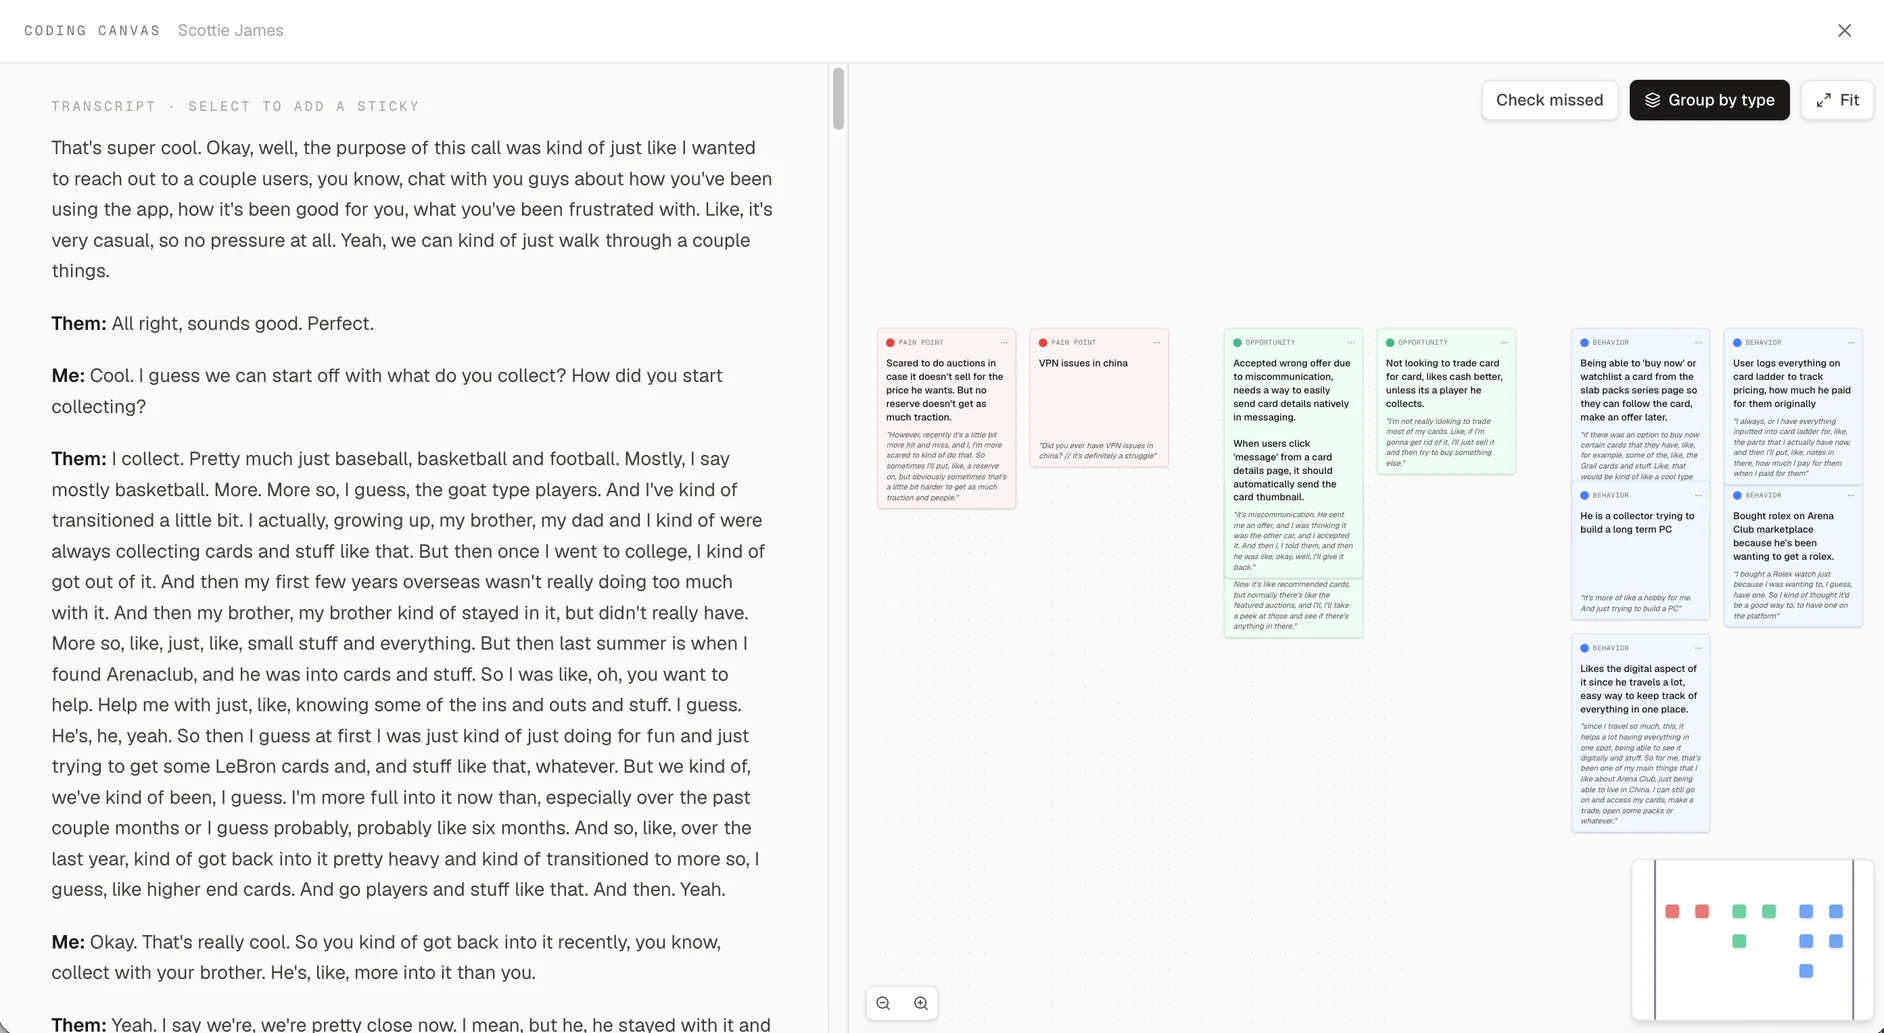
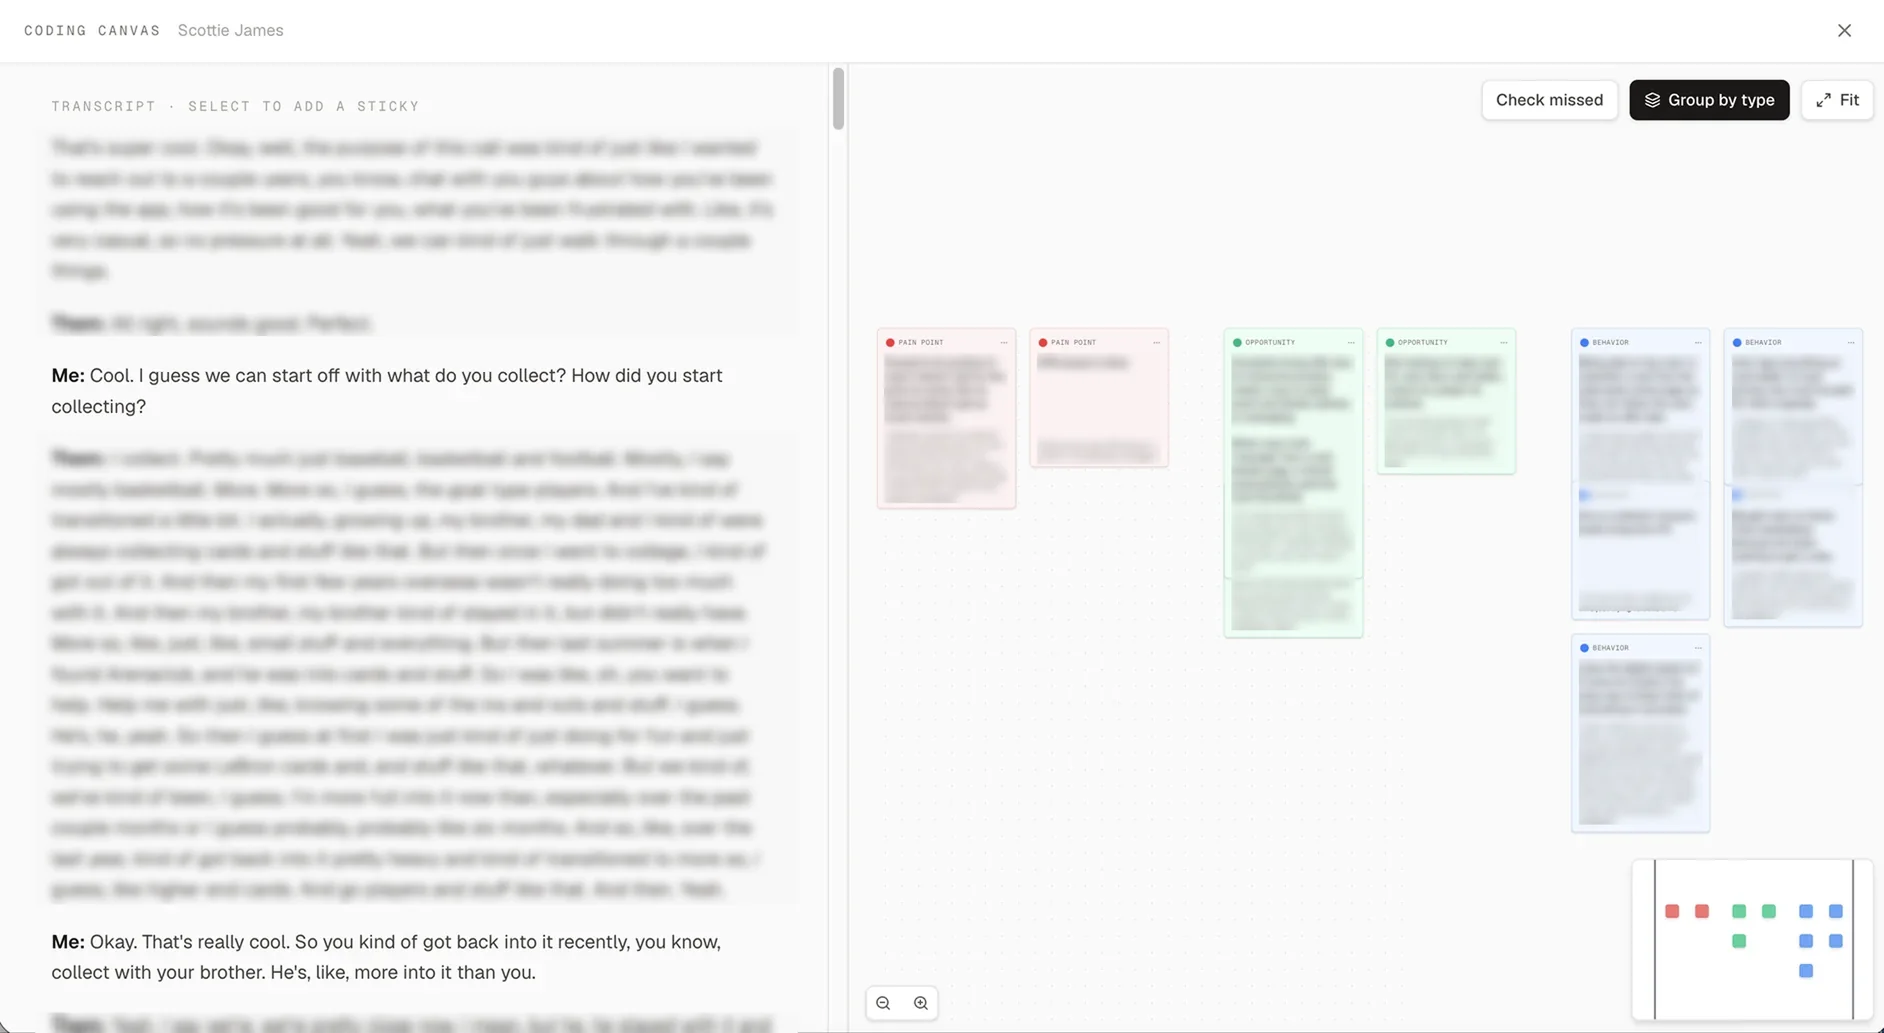
Open the resume in a tab, and blur the coding canvas screenshot
- A .pdf href now counts as external everywhere it appears, so the resume opens
  in a new tab instead of saving. One rule covers the nav and both footers.
- log-2.webp is the blurred capture of the coding canvas. The previous one had
  a real interview transcript and sticky notes legible in it.

diff --git a/components/Contact.tsx b/components/Contact.tsx
@@ -3,7 +3,7 @@ import styles from "./Contact.module.css";
 
 const EMAIL = "vickyyjen@gmail.com";
 
-/** The resume is a download; the rest open. */
+/** Everything here opens in a new tab — the resume included. */
 const LINKS = [
   { label: "Email", href: `mailto:${EMAIL}` },
   { label: "Resume", href: "/resume.pdf" },
@@ -24,16 +24,14 @@ export default function Contact() {
         style={{ "--reveal-delay": "90ms" } as CSSProperties}
       >
         {LINKS.map((link) => {
-          const external = link.href.startsWith("http");
+          const external = link.href.startsWith("http") || link.href.endsWith(".pdf");
           return (
             <a
               key={link.label}
               className={styles.link}
               href={link.href}
               {...(external ? { target: "_blank", rel: "noreferrer noopener" } : {})}
-              {...(link.href.endsWith(".pdf")
-                ? { download: "Vicky Jen Resume.pdf", type: "application/pdf" }
-                : {})}
+              {...(link.href.endsWith(".pdf") ? { type: "application/pdf" } : {})}
             >
               {link.label}
             </a>

diff --git a/components/SiteFooter.tsx b/components/SiteFooter.tsx
@@ -1,6 +1,6 @@
 import styles from "./SiteFooter.module.css";
 
-/** The resume is a download; the rest open. */
+/** Everything here opens in a new tab — the resume included. */
 const LINKS = [
   { label: "Email", href: "mailto:vickyyjen@gmail.com" },
   { label: "Resume", href: "/resume.pdf" },
@@ -23,12 +23,10 @@ export default function SiteFooter() {
               key={l.label}
               className={styles.link}
               href={l.href}
-              {...(l.href.startsWith("http")
+              {...(l.href.startsWith("http") || l.href.endsWith(".pdf")
                 ? { target: "_blank", rel: "noreferrer noopener" }
                 : {})}
-              {...(l.href.endsWith(".pdf")
-                ? { download: "Vicky Jen Resume.pdf", type: "application/pdf" }
-                : {})}
+              {...(l.href.endsWith(".pdf") ? { type: "application/pdf" } : {})}
             >
               {l.label}
             </a>

diff --git a/components/TopNav.tsx b/components/TopNav.tsx
@@ -106,7 +106,8 @@ export default function TopNav() {
             className={styles.link}
             href="/resume.pdf"
             type="application/pdf"
-            download="Vicky Jen Resume.pdf"
+            target="_blank"
+            rel="noreferrer noopener"
           >
             Resume
           </a>

diff --git a/README.md b/README.md
@@ -452,9 +452,9 @@ label faded the project name with it.
   computed from their gradient stops rather than sampled — gamma-encoded Rec.709
   luma on the sRGB bytes, which is what the 0.42 threshold is calibrated to.
 
-  The `Resume` item points at `/resume.pdf`, which saves rather than opening in
-  a tab — `download` is set wherever a link ends in `.pdf`, so the nav and both
-  footers agree without repeating themselves.
+  The `Resume` item points at `/resume.pdf` and opens in a new tab. A `.pdf`
+  href counts as external in all three places that link to it, so the nav and
+  both footers agree without repeating themselves.
 - **A first landing is covered until the page is ready.** `components/BootLoader.tsx`
   renders a cover in the *first paint* — it's a server-rendered client component,
   so it's in the HTML rather than appearing a moment later — and lifts once the
